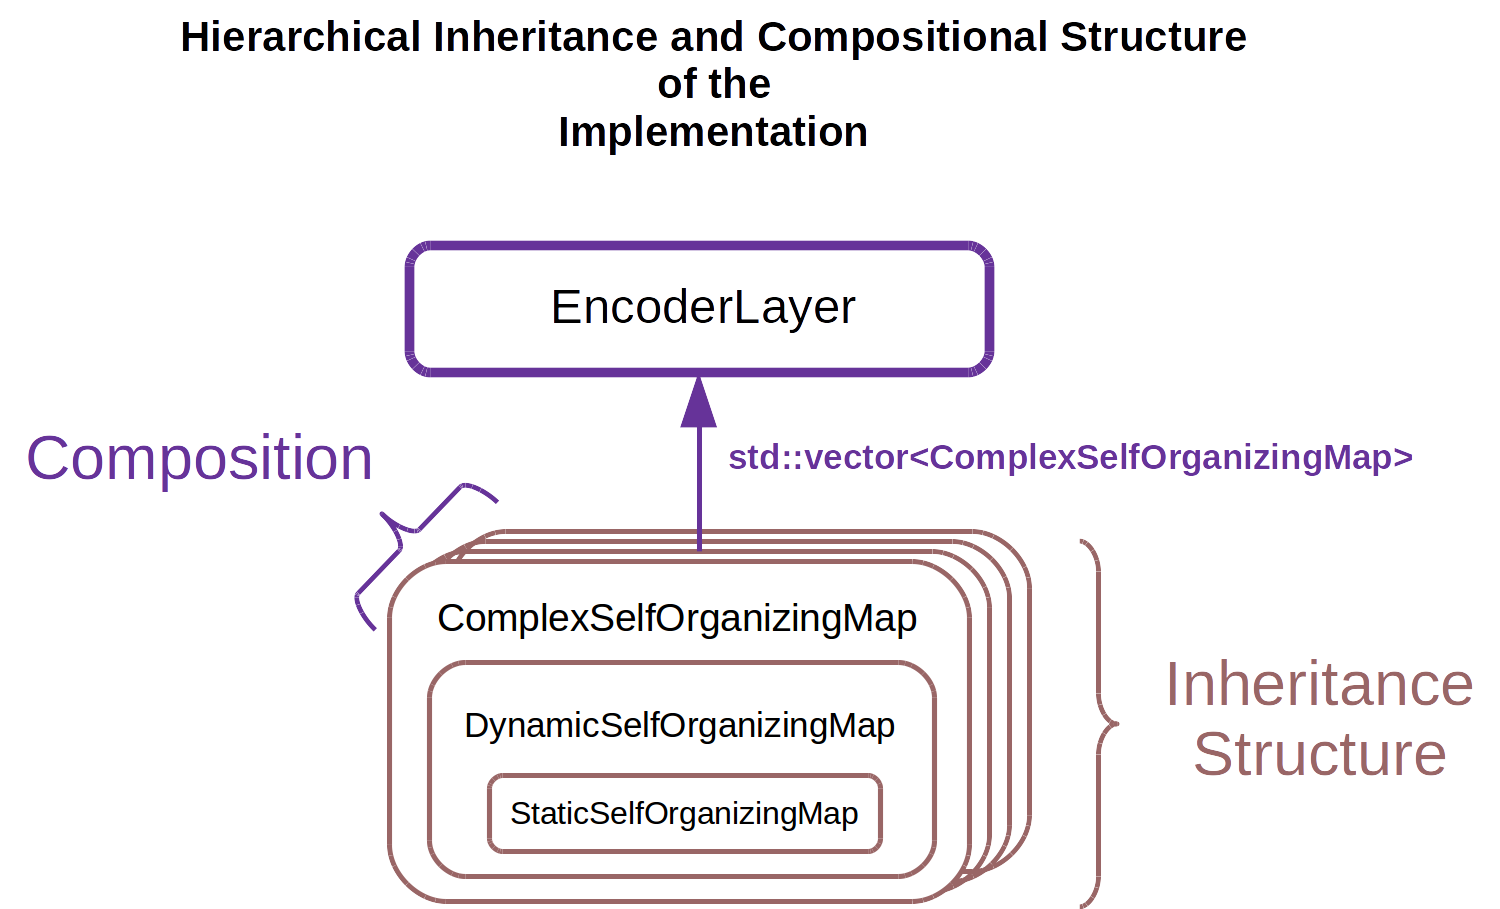
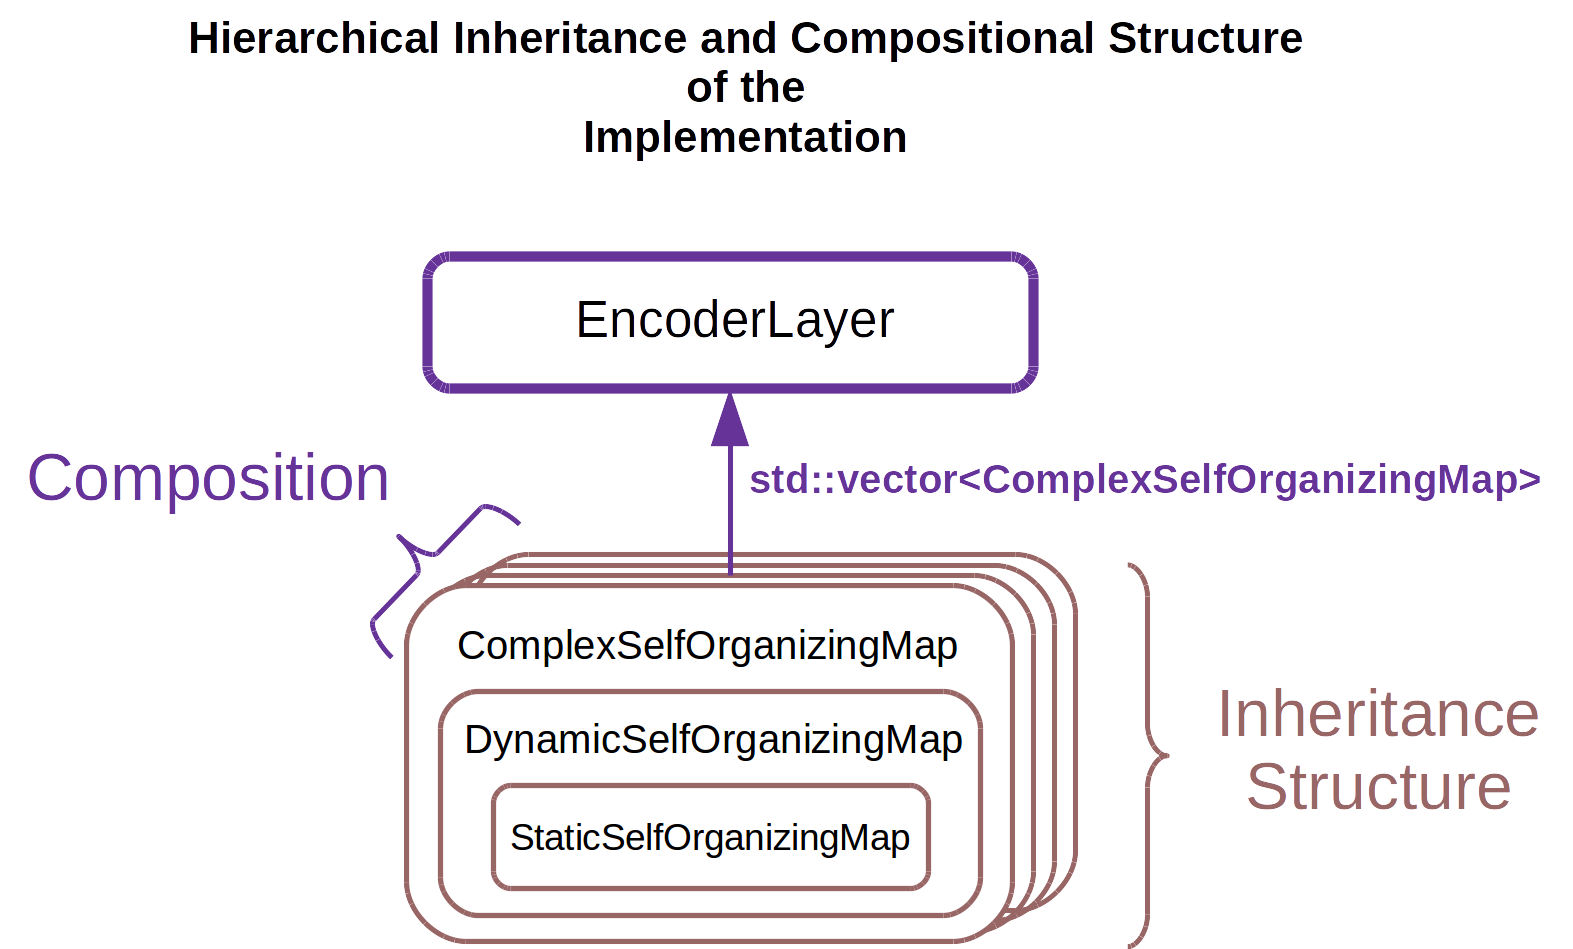
Little changes in font size of some figures

diff --git a/plos_latex_template.tex b/plos_latex_template.tex
@@ -1164,7 +1164,7 @@ Then, each \gls{mpi} rank saves all its data with a unique call to \gls{mpi} Wri
 
 \begin{figure}[h!]
     \centering
-    \includegraphics[width=0.7\textwidth]{EncoderParallelization.png}
+    \includegraphics[width=0.75\textwidth]{EncoderParallelization.png}
     \caption{\glsfirst{el} \gls{mpi}+\gls{omp} parallelization. (A) Distribution of \gls{csom} objects in an \gls{el} with
     3 by 8 (24) \glspl{cc} among three \gls{mpi} ranks with three \gls{omp} threads per rank.
     Certain ranks could take care of a different number of
@@ -1224,7 +1224,7 @@ There are two ways to measure the parallel performance of a given application. T
     \includegraphics[width=1.0\textwidth]{Strong_Weak.png}
     \caption{Strong and Weak scaling tests on Cooley nodes. Left: Strong scaling. Run time vs. the number of nodes for different number of threads per node.
 	    The problem size stays fixed but the number of processing elements are increased.
-    Right: Weak scaling. Run time vs. the number of nodes for 8 threads per node.
+    Right: Weak scaling. Run time vs. the number of nodes for different number of threads per node.
     In this case the problem workload assigned to each processing element stays constant and additional elements are used to solve a larger total problem (i.e. a problem that would not fit in the available RAM on a single node).}
     \label{fig:Strong_Weak}
 \end{figure}
